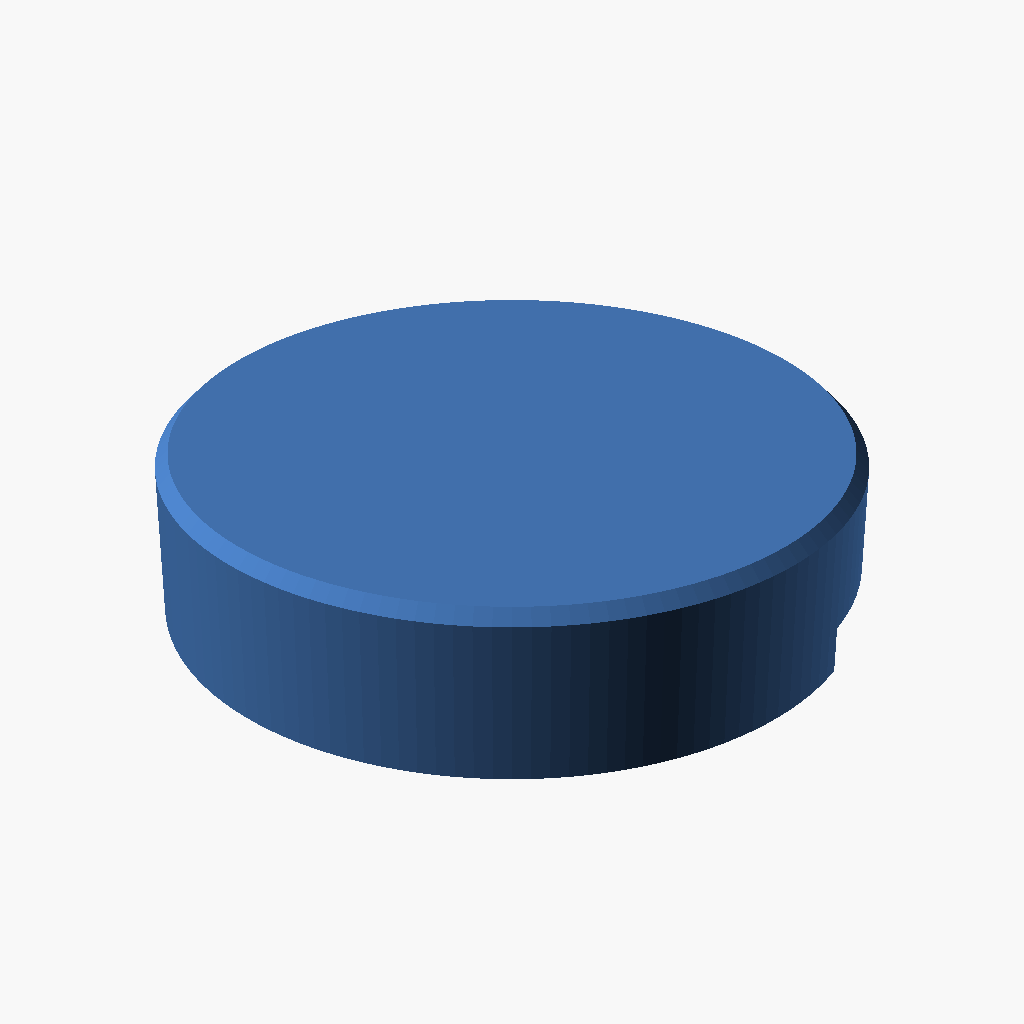
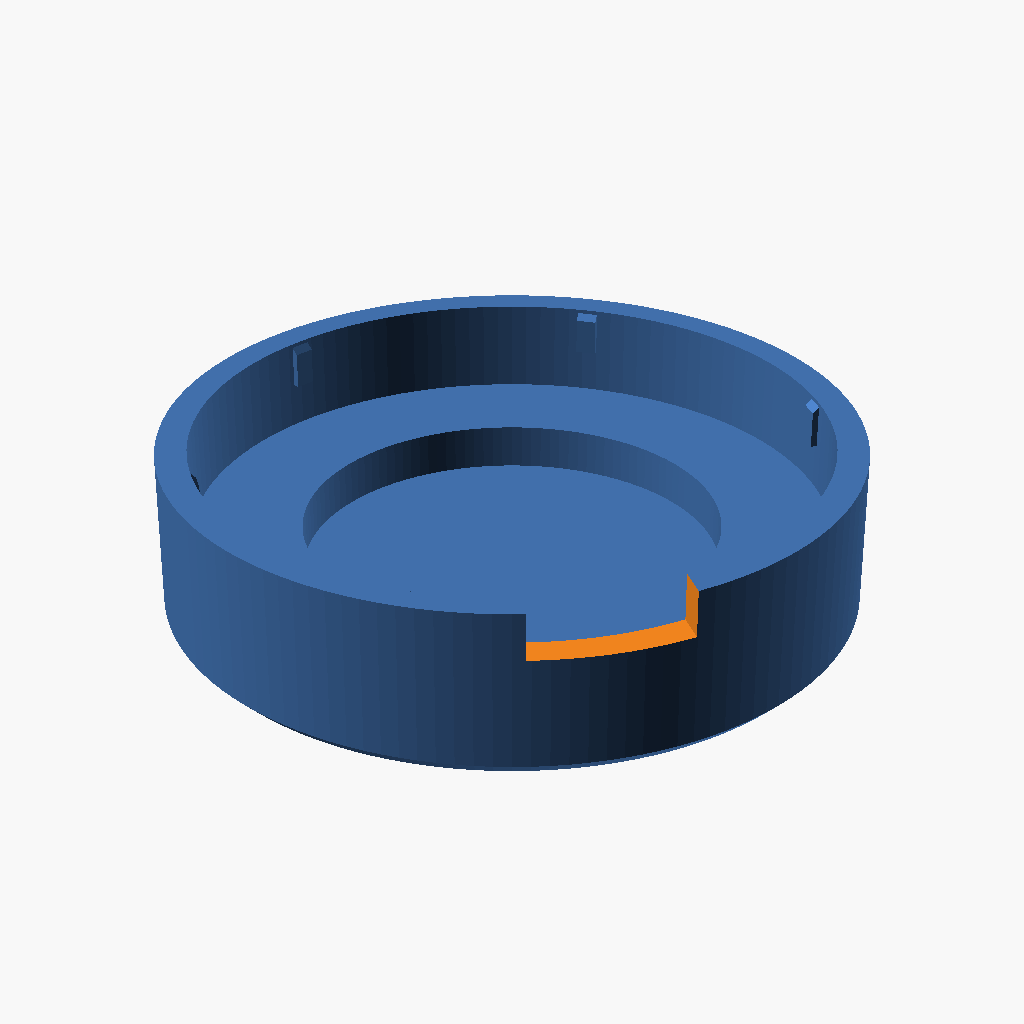
fix(kidscleancar_knob_cover): close mesh at param extremes + export in documented print orientation (pst-8bj)
Addresses codex gate review (pst-u2m); all three findings reproduced on
the pinned engine (2025.06.12.ai25773) and fixed:

1. knob_d max 60->40 so the knob cavity always fits inside the flange
   bore (a cavity wider than the body made shell_profile self-cross ->
   non-closed mesh). Defensive clamp: knob_cav_r = min(.., bore_r-0.6).

2. skirt_gap max 4->2 so the skirt always reaches past the flange top
   (skirt_gap >= flange_h left the ribs entirely off the flange = zero
   retention). rib_leadin now clamped to the rib's straight height so a
   shallow rib can never invert the profile into a non-closed mesh.

3. Final assembly now flips ROOF-DOWN into the print frame: the exported
   STL matches the documented mouth-up/support-free orientation (dome on
   the bed at z=0, mouth up), instead of the previous mouth-on-bed export
   that would have bridged the ~48mm interior roof. Invariant probes map
   deck-frame -> print-frame accordingly.

Verified: every declared @param min/mid/max exports a closed mesh on the
pinned CGAL engine (53 one-at-a-time cases); wasm sweep 53/53 green;
check-invariants green; STL watertight single body, z=0..13.05.

Claude-Session: https://claude.ai/code/session_01YPcLxyLs693J2H9CYq7Wr2

🤖 Generated with [Claude Code](https://claude.com/claude-code)

diff --git a/models/kidscleancar_knob_cover.invariants.py b/models/kidscleancar_knob_cover.invariants.py
@@ -2,7 +2,7 @@
 
 The cover's reason to exist is a friction grip on the LOWER FLANGE that
 deliberately never couples to the knob. These claims pin that intent
-against the exported STL (deck surface at z = 0):
+against the exported STL:
 
 1. TOPOLOGY: one printed solid.
 2. FOOTPRINT: round, OD = flange_d + 2*fit_clearance + 2*wall — big
@@ -17,6 +17,12 @@ against the exported STL (deck surface at z = 0):
    reaches INSIDE the flange radius (interference retention); halfway
    between ribs the same radius is empty (a round, free-spinning bore —
    no anti-rotation feature). Both together are the whole locking story.
+
+COORDINATES: the model is authored in the deck frame (z = 0 = deck, mouth
+low, roof high) but the exported STL is FLIPPED roof-down into the print
+frame (dome on the bed at z = 0, mouth up). Probes are written in the
+readable deck frame and mapped through `_flip` — deck (x, y, z) ->
+print (x, -y, top_z - z) — to match the exported geometry.
 """
 
 from __future__ import annotations
@@ -28,16 +34,19 @@ import numpy as np
 from scripts.invariants import Failure, as_default_params, expect_connected_solids
 
 
-def _solid(stl, pts):
-    """Majority-robust containment for a list of (x,y,z) points."""
-    return stl.contains(np.array(pts, dtype=float))
-
-
 def check(ctx):
     failures = []
     p = as_default_params(ctx["params"])
     stl = ctx["stl"]
     bx, by, bz = ctx["bbox_mm"]
+
+    # Deck-frame -> print-frame map (mirrors the final assembly flip).
+    top_z = p["flange_h"] + p["knob_h"] + p["knob_vclear"] + p["wall"]
+
+    def solid(deck_pts):
+        """Containment for deck-frame points, mapped into the exported STL frame."""
+        pts = [(x, -y, top_z - z) for (x, y, z) in deck_pts]
+        return stl.contains(np.array(pts, dtype=float))
 
     # 1. One monolithic solid.
     failures.extend(expect_connected_solids(ctx, 1))
@@ -72,13 +81,13 @@ def check(ctx):
         (0.0, 0.0, knob_mid_z),               # dead centre, empty
         (knob_r - 0.5, 0.0, knob_mid_z),      # at the knob wall, empty
     ]
-    if any(_solid(stl, knob_probes)):
+    if any(solid(knob_probes)):
         failures.append(Failure(
             "knob-cavity",
             f"knob cavity not clear at r<={knob_r:.1f}, z={knob_mid_z:.1f}; "
             f"the cover would touch/turn the knob",
         ))
-    if not _solid(stl, [(0.0, 0.0, knob_roof + wall / 2)])[0]:
+    if not solid([(0.0, 0.0, knob_roof + wall / 2)])[0]:
         failures.append(Failure(
             "knob-cavity",
             f"no solid roof above the knob cavity at z={knob_roof + wall / 2:.1f}",
@@ -86,7 +95,7 @@ def check(ctx):
 
     # 4. Screw-head annulus cleared: hollow above the screw band.
     annulus_r = (knob_r + flange_r) / 2
-    if _solid(stl, [(annulus_r, 0.0, screw_top - 0.5)])[0]:
+    if solid([(annulus_r, 0.0, screw_top - 0.5)])[0]:
         failures.append(Failure(
             "screw-clearance",
             f"screw annulus not clear at r={annulus_r:.1f}, z={screw_top - 0.5:.1f}",
@@ -102,13 +111,13 @@ def check(ctx):
         a_bt = math.radians((i + 0.5) * 360 / n)
         on_rib.append((bite_r * math.cos(a_on), bite_r * math.sin(a_on), z_rib))
         between_rib.append((bite_r * math.cos(a_bt), bite_r * math.sin(a_bt), z_rib))
-    if not all(_solid(stl, on_rib)):
+    if not all(solid(on_rib)):
         failures.append(Failure(
             "ribs",
             f"a crush rib is missing or doesn't reach r={bite_r:.2f}mm "
             f"(inside flange_r={flange_r:.2f}) — no interference grip",
         ))
-    if any(_solid(stl, between_rib)):
+    if any(solid(between_rib)):
         failures.append(Failure(
             "ribs",
             f"bore is solid between ribs at r={bite_r:.2f}mm — the cover would "
